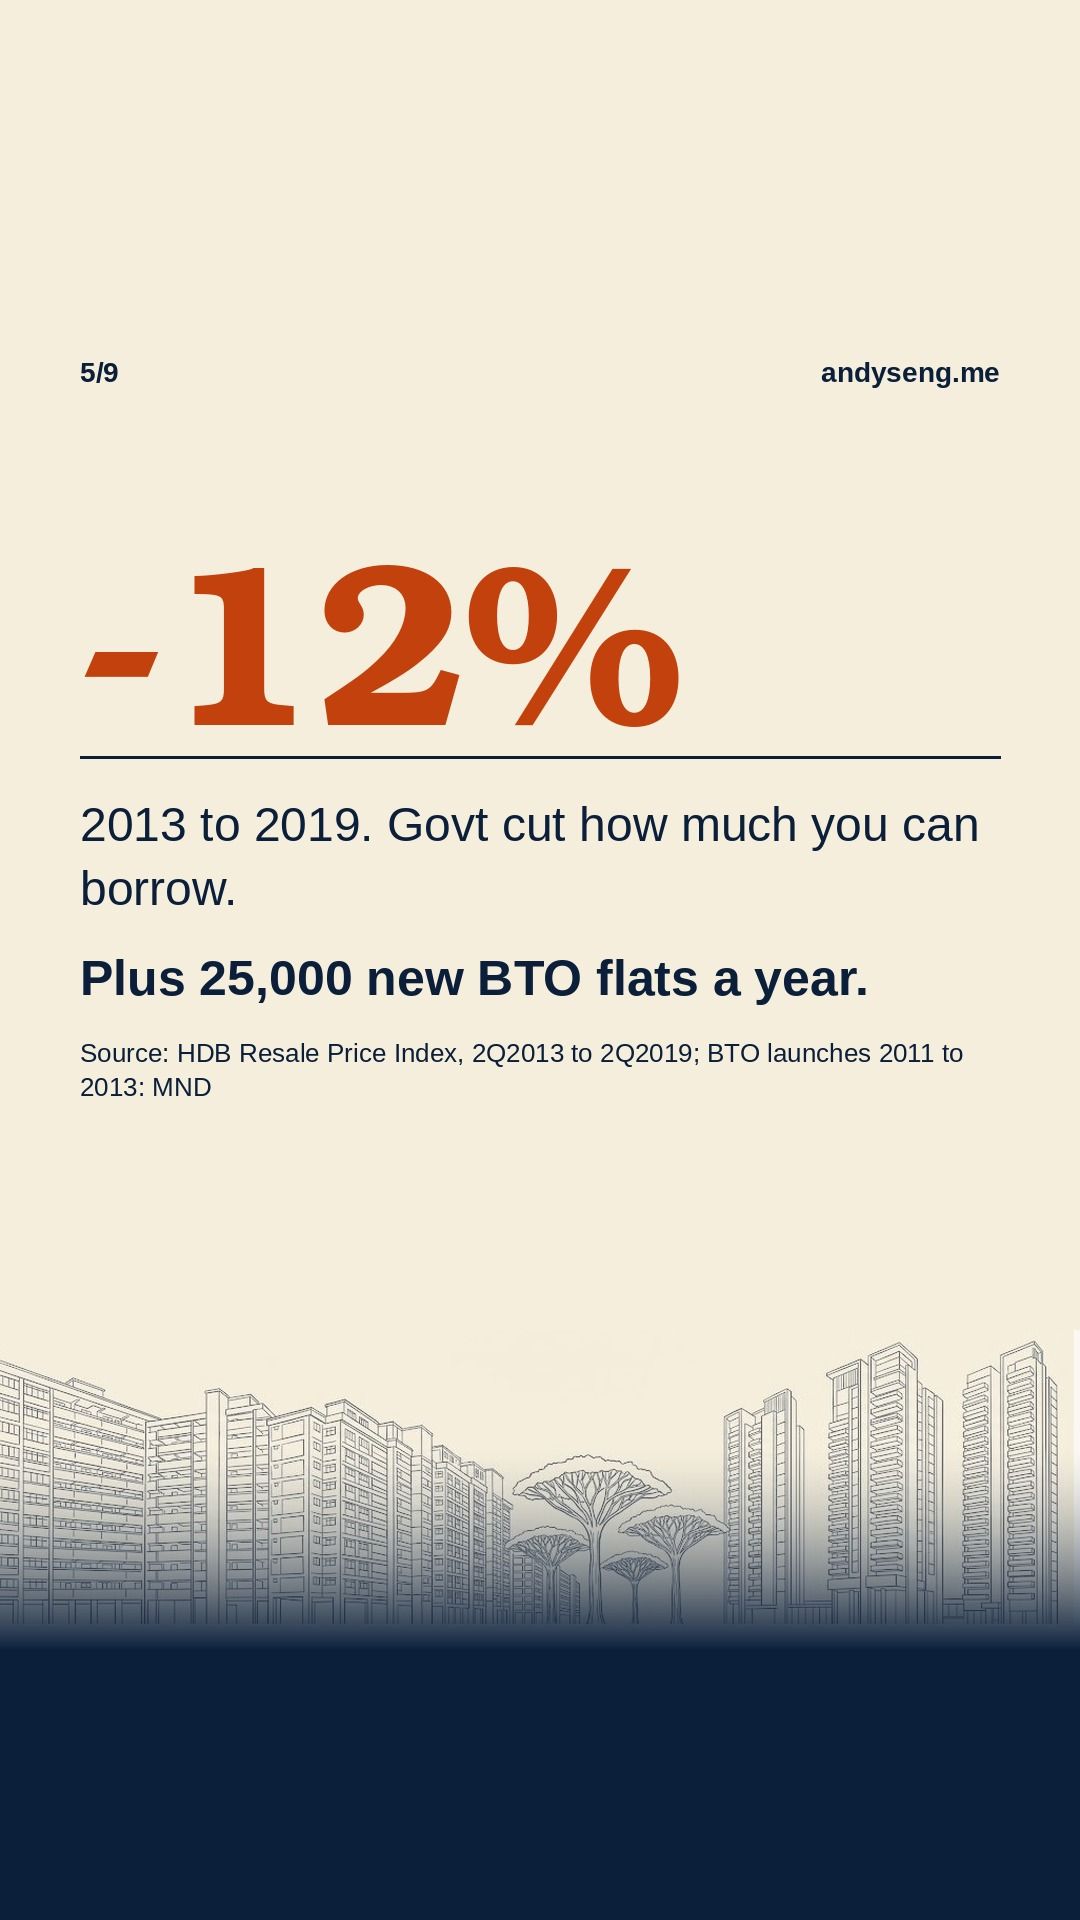
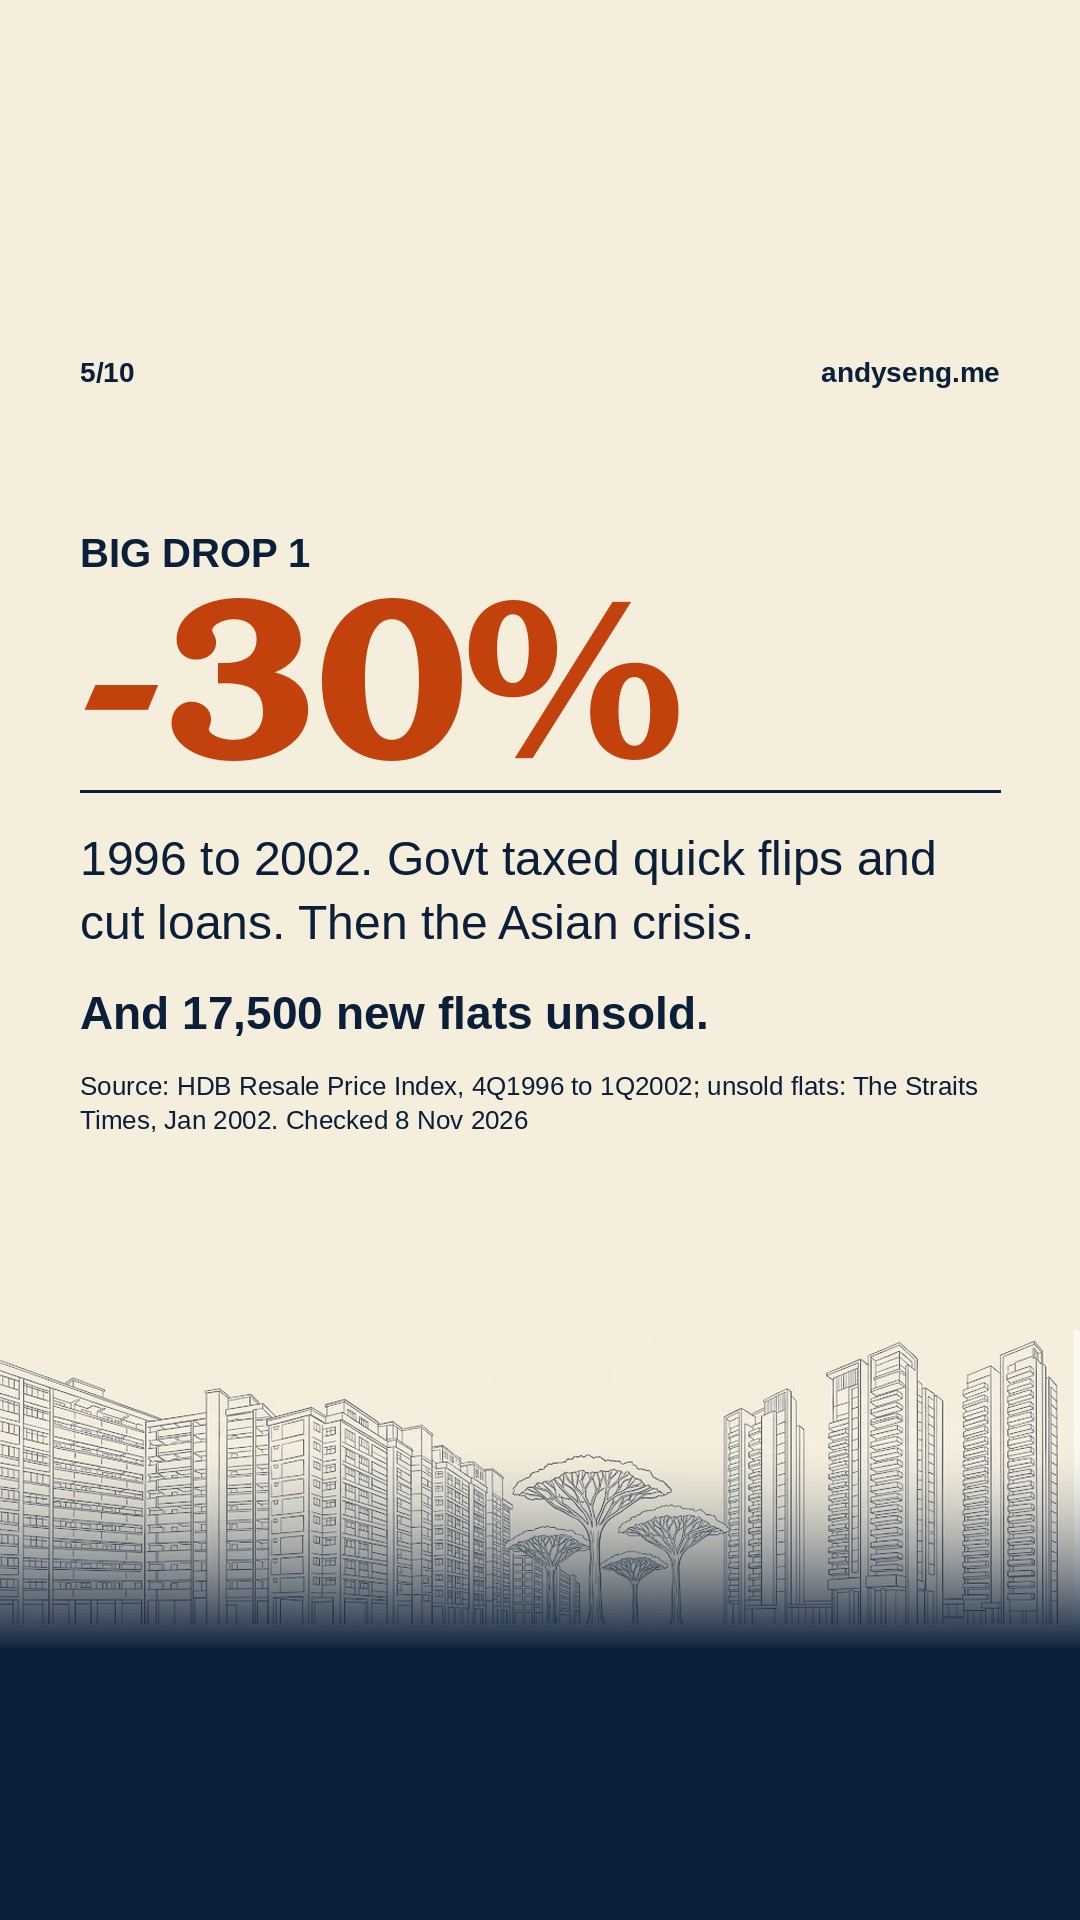
HDB price-drop carousel: revise to property-carousel skill (10 slides, visuals, IG slide 1)
Claude-Session: https://claude.ai/code/session_01HHhgALkj4HFz4WAMiLt41o

Changed region(s): [[0.0611, 0.2812, 0.9167, 0.5938], [0.0917, 0.1875, 0.1222, 0.2188]]

diff --git a/2026-11-17-hdb-crash-data/captions.md b/2026-11-17-hdb-crash-data/captions.md
@@ -1,31 +1,30 @@
-# HDB crash post: captions (scheduled Tue 17 Nov 2026, 9pm)
+# HDB price-drop post: captions (scheduled Tue 17 Nov 2026, 9pm; revised 12 Nov to the property-carousel skill)
 
 ## Instagram (auto-shares to FB)
+19,500 HDB flats are free to sell in 2028. More than double 2025. Prices will drop, right?
 
-19,500 HDB flats hit MOP in 2028. Sure crash, right?
+Not so fast. In 2021, even more flats were free to sell (25,530). Prices went up 12.7%.
 
-Not so fast. In 2021, even more flats hit MOP (25,530). Prices went up 12.7%.
-
-I checked 36 years of HDB prices. Only 2 real crashes:
+I checked 36 years of HDB prices. Only 2 long drops:
 1996 to 2002: down 30%
 2013 to 2019: down 12%
 
-Both times, the govt tightened loans AND there were too many new flats. Today, only one of those is true. The govt is easing, jobs are strong, loan rates are low.
+Each had govt curbs plus one more push. Of the 4 big-drop signs, only 1 is here today: lots of new flats. The govt is easing, jobs are holding, loan rates are not high yet.
 
-My read: HDB prices are not set up to crash. If curbs or job losses come back, I'll tell you.
+My read: today looks nothing like 1996 or 2013. If curbs or job losses come back, I'll tell you.
 
-Selling? Comment BLOCK, or WhatsApp me your block, and I'll send you its recent sales.
+Selling? Comment BLOCK and I'll send you your block's recent sales. Or get a free home report, link in bio.
 
-Next: the full breakdown, with charts, on my blog.
+Next Thursday: own a condo and want an HDB flat? Your real options.
 
-Source: HDB Resale Price Index (1Q1990 to 3Q2026); MND (2025 and 2028 MOP figures); HDB data via OrangeTee (2021 MOP); MTI (Aug 2026). 2.4x worked out from MND figures. Checked 8 Nov 2026. My opinion based on public data, not a forecast or financial advice.
+Source: HDB Resale Price Index (1Q1990 to 3Q2026); MND (2025 and 2028 figures; 2028 is a projection); HDB data via OrangeTee (2021 count); MTI (Aug 2026); MAS SORA (Oct 2026). Checked 8 Nov 2026. My opinion based on public data, not a forecast or financial advice.
 
 Andy Seng (Seng Cher Chin) | PropNex Realty Pte Ltd | CEA Reg No: R058286J | Agency Licence No: L3008022J | WhatsApp 9002 1510
 
 #hdb #hdbresale #singaporeproperty #mop #sgproperty
 
 ## TikTok title
-Will HDB prices crash? 36 years of data
+Will HDB prices drop in 2028? 36 years of data
 
 ## TikTok (one paragraph)
-19,500 HDB flats hit MOP in 2028. Sure crash? 2021 had even more, and prices went up 12.7%. Only 2 crashes in 36 years, and today has just 1 of the 4 conditions. My read: no crash. Selling? Comment BLOCK and I'll send your block's recent sales. HDB resale prices Singapore 2026. #hdb #singaporeproperty #hdbresale Source: HDB Resale Price Index; MND; OrangeTee. Checked 8 Nov 2026. My opinion on public data, not a forecast. Andy Seng (Seng Cher Chin) | PropNex Realty Pte Ltd | CEA Reg No: R058286J | Agency Licence No: L3008022J | WhatsApp 9002 1510
+19,500 HDB flats are free to sell in 2028. Prices will drop? 2021 had even more, and prices went up 12.7%. Only 2 long drops in 36 years, and today has just 1 of the 4 signs. Selling? Comment BLOCK and I'll send your block's recent sales. HDB resale prices Singapore 2026. #hdb #singaporeproperty #hdbresale Source: HDB Resale Price Index; MND; HDB data via OrangeTee. Checked 8 Nov 2026. My opinion on public data, not a forecast. Andy Seng (Seng Cher Chin) | PropNex Realty Pte Ltd | CEA Reg No: R058286J | Agency Licence No: L3008022J | WhatsApp 9002 1510
